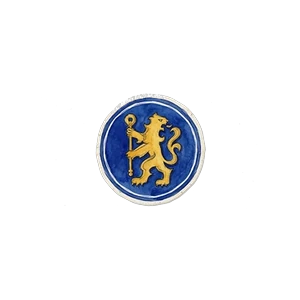
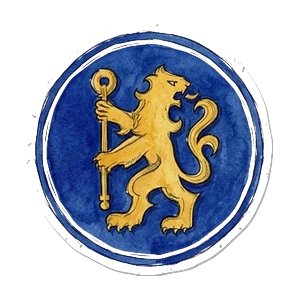
fix: blasons recadres + taille optique equilibree (plus de blason minuscule)

diff --git a/public/index.html b/public/index.html
@@ -7,7 +7,7 @@
 <meta name="description" content="SYRO GAMES — Le Ludo africain multijoueur en ligne. Sans compte, entre amis.">
 <meta name="theme-color" content="#e0a82e">
 <link rel="icon" type="image/png" href="/favicon.png">
-<link rel="stylesheet" href="style.css?v=2026-12-11">
+<link rel="stylesheet" href="style.css?v=2026-12-12">
 </head>
 <body>
 <div id="app">
@@ -320,10 +320,10 @@ try{ const _sm=localStorage.getItem('syro_sound'); if(_sm==='off') document.docu
 const _sb=document.getElementById('btnSound'); if(_sb) _sb.textContent=(document.documentElement.dataset.sound==='off'?'🔇':'🔊');
 // Navigation gérée par app.js (showScreen) — pas de handler inline ici
 </script>
-<script src="engine.js?v=2026-12-11"></script>
-<script src="backends.js?v=2026-12-11"></script>
-<script src="firebase-config.js?v=2026-12-11"></script>
-<script src="syro-store.js?v=2026-12-11"></script>
-<script src="app.js?v=2026-12-11"></script>
+<script src="engine.js?v=2026-12-12"></script>
+<script src="backends.js?v=2026-12-12"></script>
+<script src="firebase-config.js?v=2026-12-12"></script>
+<script src="syro-store.js?v=2026-12-12"></script>
+<script src="app.js?v=2026-12-12"></script>
 </body>
 </html>
